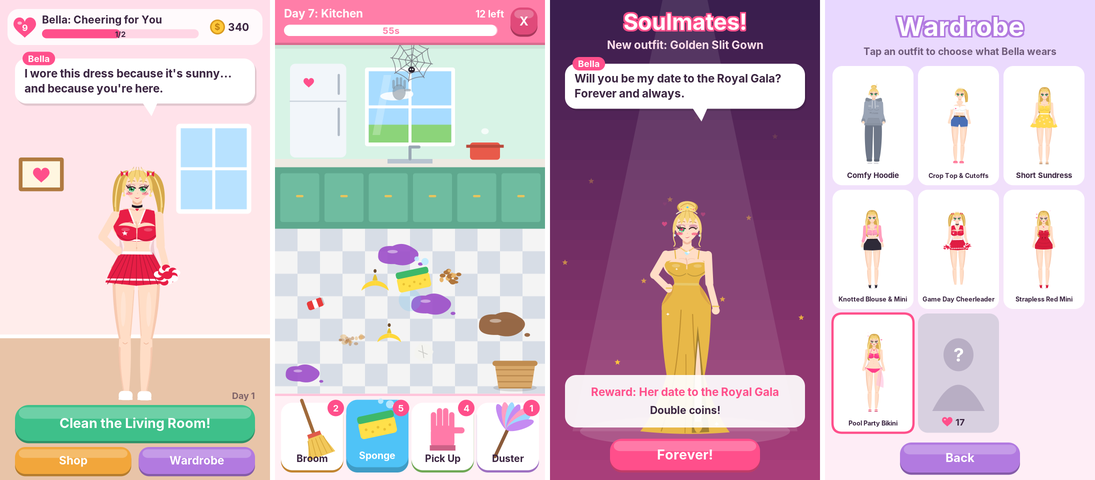
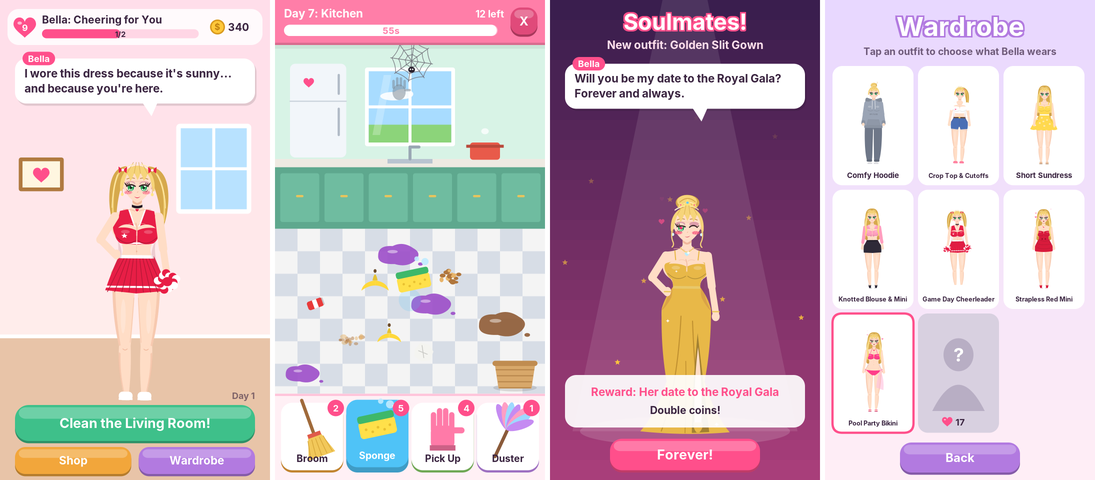
Spotless: bigger face, proportionate waist and shorter legs
Claude-Session: https://claude.ai/code/session_01WJNkhQLE8vdsMZzcVHNr9H

diff --git a/spotless-core/src/main/kotlin/com/spotless/game/Bella.kt b/spotless-core/src/main/kotlin/com/spotless/game/Bella.kt
@@ -984,7 +984,7 @@ private class Warp(private val p: Painter) : Painter {
     private fun pinch(y0: Float): Float {
         val y = hy(y0)
         val d = (y - 372f) / 58f
-        return 1f - 0.17f * kotlin.math.exp(-d * d)
+        return 1f - 0.08f * kotlin.math.exp(-d * d)
     }
 
     fun mapX(x0: Float, y0: Float) = hx(x0) * pinch(y0)
@@ -1029,11 +1029,11 @@ private class Warp(private val p: Painter) : Painter {
     override fun rotate(degrees: Float) = p.rotate(degrees)
 
     companion object {
-        const val HEAD = 0.76f
+        const val HEAD = 0.86f
         const val CHIN = 176f
         // Original heights of chin, shoulders, bust, waist, hips, crotch, knees, ankles and soles,
         // and where they end up.
         val KY = floatArrayOf(178f, 216f, 290f, 376f, 466f, 540f, 690f, 856f, 892f)
-        val NY = floatArrayOf(178f, 210f, 270f, 336f, 406f, 464f, 668f, 858f, 892f)
+        val NY = floatArrayOf(178f, 212f, 278f, 348f, 424f, 492f, 692f, 860f, 892f)
     }
 }
